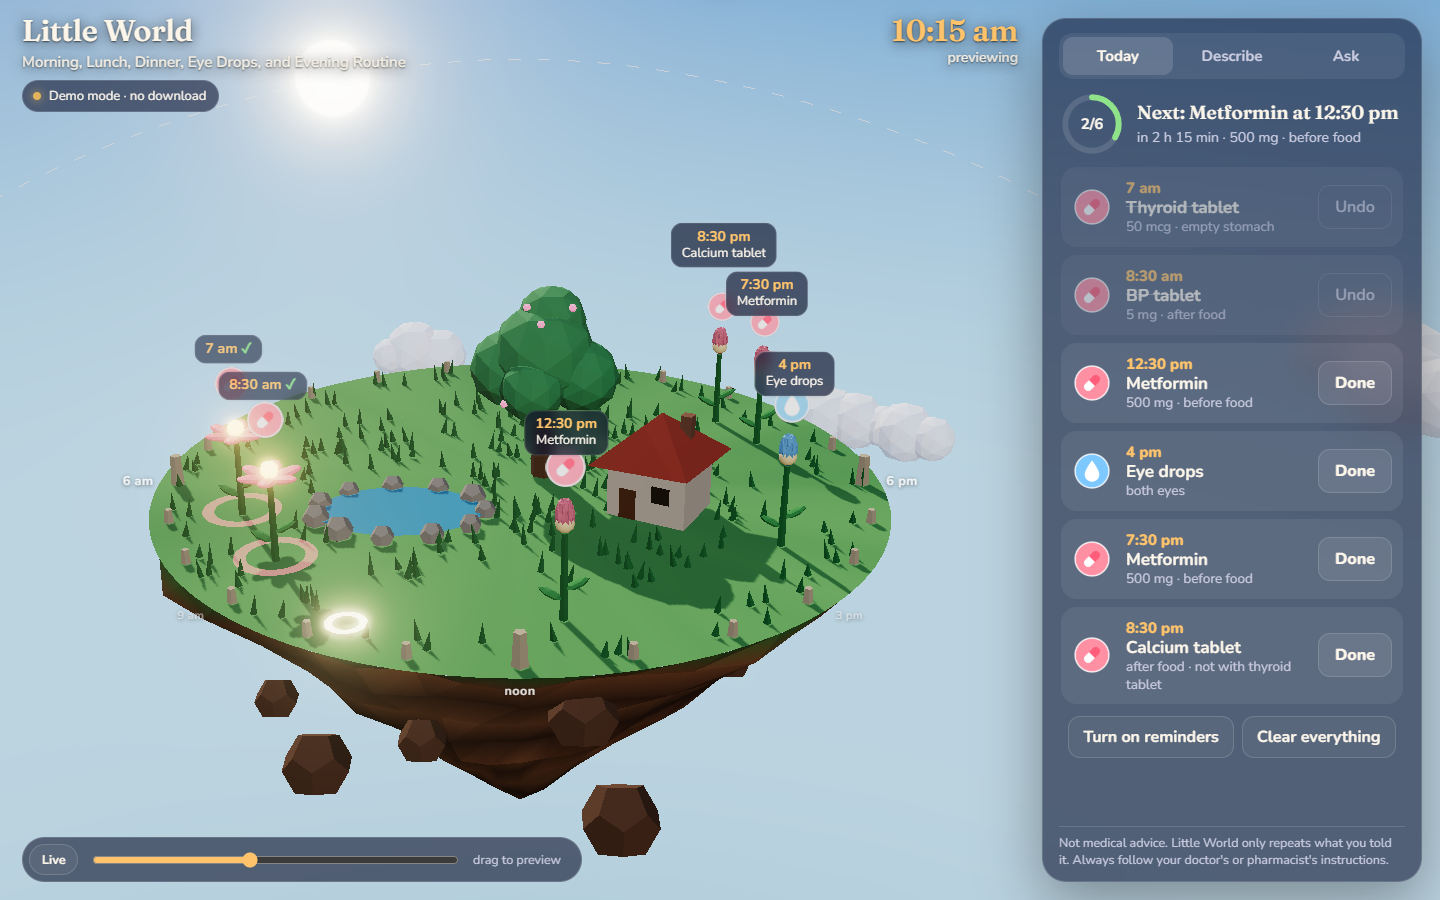
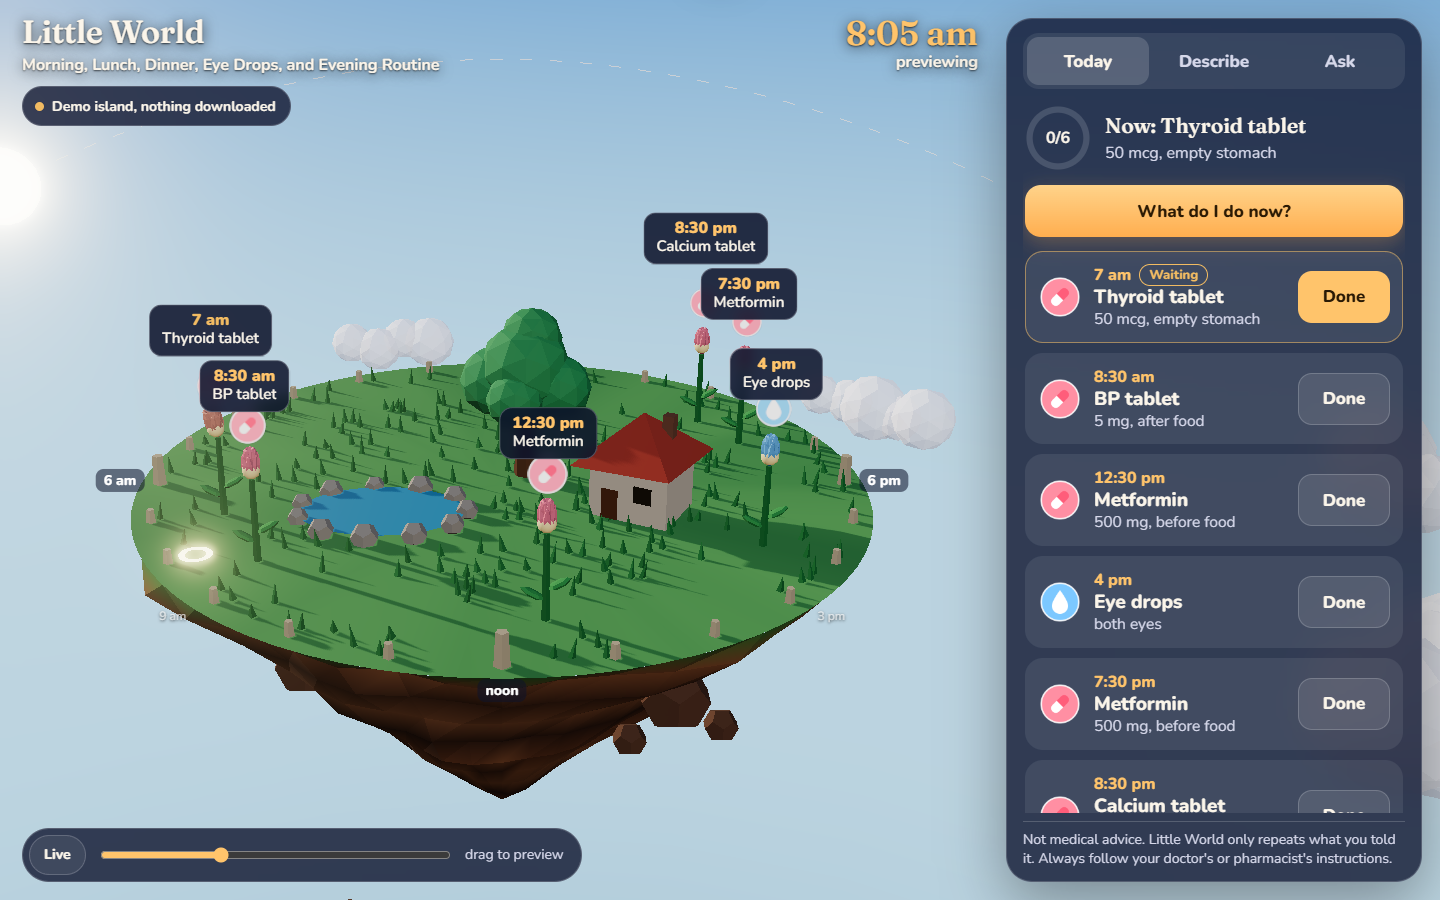
README and media: big view, family setup, spoken reminders; refreshed screenshots and GIFs

diff --git a/README.md b/README.md
@@ -12,13 +12,20 @@ Nothing leaves your device. No account, no server, no analytics. After the first
 |---|---|---|
 | ![Day](docs/day.png) | ![Night](docs/night.png) | ![Mobile](docs/mobile.png) |
 
+| Big view | Family setup |
+|---|---|
+| ![What do I do now?](docs/bigview.png) | ![Send to another device, then open it there](docs/family.gif) |
+
 > **Not medical advice.** Little World only repeats what you told it. It does not know about medicines, doses or interactions, and it is told to send those questions to a doctor or pharmacist. Always follow your doctor's or pharmacist's instructions.
 
 ## What it does
 
 - **Describe:** write your routine the way you'd say it out loud. Gemma 2 2B (in a Web Worker, on your GPU via WebGPU) turns it into a list of tasks with a time, a dose, a food rule and an icon. You see an editable preview first, so you can fix a time or remove a task before anything is planted.
 - **Today:** the island shows the day. The sun (and later the moon) moves along an arc from 6 am on the left to 6 pm on the right. Every task is a flower or lantern on the rim at its hour. It glows when due, droops a little when late, and blooms when you mark it done. The tree in the middle grows with your progress.
-- **Reminders:** a gentle toast and chime in the page, plus a system notification if you allow it.
+- **"What do I do now?":** one button opens a big, calm screen with a single task in very large type, one large "I've done it" button (with undo), and the next few tasks underneath. It can be the default view, so the island is one tap away rather than in the way.
+- **Reminders:** a gentle toast and chime in the page, plus a system notification if you allow it. Optionally read aloud with the browser's own `speechSynthesis` (no voice service), and repeated gently after 20 and 40 minutes if a task is still waiting.
+- **Family setup:** someone else (a grandchild, say) can describe the routine once on a computer that runs Gemma, then press "Send to another device". That shows a QR code and a link. The routine is packed into the link's `#` fragment (deflate + base64url), which browsers never send to a server, so it moves from one device to the other without any backend. Opening the link shows the routine first and asks before replacing anything.
+- **Comfort settings:** read reminders aloud, repeat reminders, open in big view, calmer motion. Calmer motion is on by default when the system asks for reduced motion.
 - **Ask:** "What's next?", "Did I take my BP tablet?", "What did I miss?". Code computes the facts first (done, waiting and how long ago it was due, later), and Gemma only puts them into a friendly sentence. Medical questions get a polite redirect.
 - **Demo mode:** a precomputed routine (real Gemma output for the sample text) so anyone can try it instantly on any device, with a rule-based Ask.
 - **Offline:** a service worker precaches the app (about 0.9 MB). The model (about 1.4 GB) is cached by WebLLM in your browser's Cache Storage after the first download.
@@ -69,12 +76,13 @@ Three decisions mattered most:
 
 - Your routine, your checkmarks and your questions are stored only in `localStorage` on this device (the last 14 days). "Clear everything" wipes them.
 - The model runs on your GPU. No text is sent anywhere. The only network requests are the app files from GitHub Pages and the model weights from Hugging Face (via WebLLM) on first use.
+- A family-setup link carries the routine inside its `#` fragment, so it's never uploaded, but anyone who has the link can read it. Send it only to the person it's for.
 - No cookies, no analytics, no accounts.
 
 ## Requirements
 
 - For the real model: a browser with WebGPU and `shader-f16` (recent Chrome or Edge on desktop; some Android phones), about 1.4 GB of free storage and a few GB of GPU memory.
-- Everything else (demo mode, the island, reminders) works on any modern browser, including phones.
+- Everything else (demo mode, the island, reminders, the big view, opening a family-setup link) works on any modern browser, including phones. Without WebGPU the app says so up front and suggests setting the routine up on a computer and sending it over.
 
 ## Run it locally
 
@@ -85,6 +93,8 @@ npm run build      # outputs dist/ with base /little-world/
 ```
 
 Useful URL parameters: `?demo` (sample routine), `?demo&t=21:30` (preview a time), `?demo&done=3`, `?capture&orbit=0.3` (UI-free camera for recordings).
+
+Checks: `npm run build && npx vite preview`, then `node tools/polish-test.mjs` (big view, share link round trip, no-WebGPU fallback, desktop and mobile, fails on console errors).
 
 Eval: `npm run dev`, then `node eval/run.mjs gemma-2-2b-it-q4f16_1-MLC grammar 20 mytag`.
 
